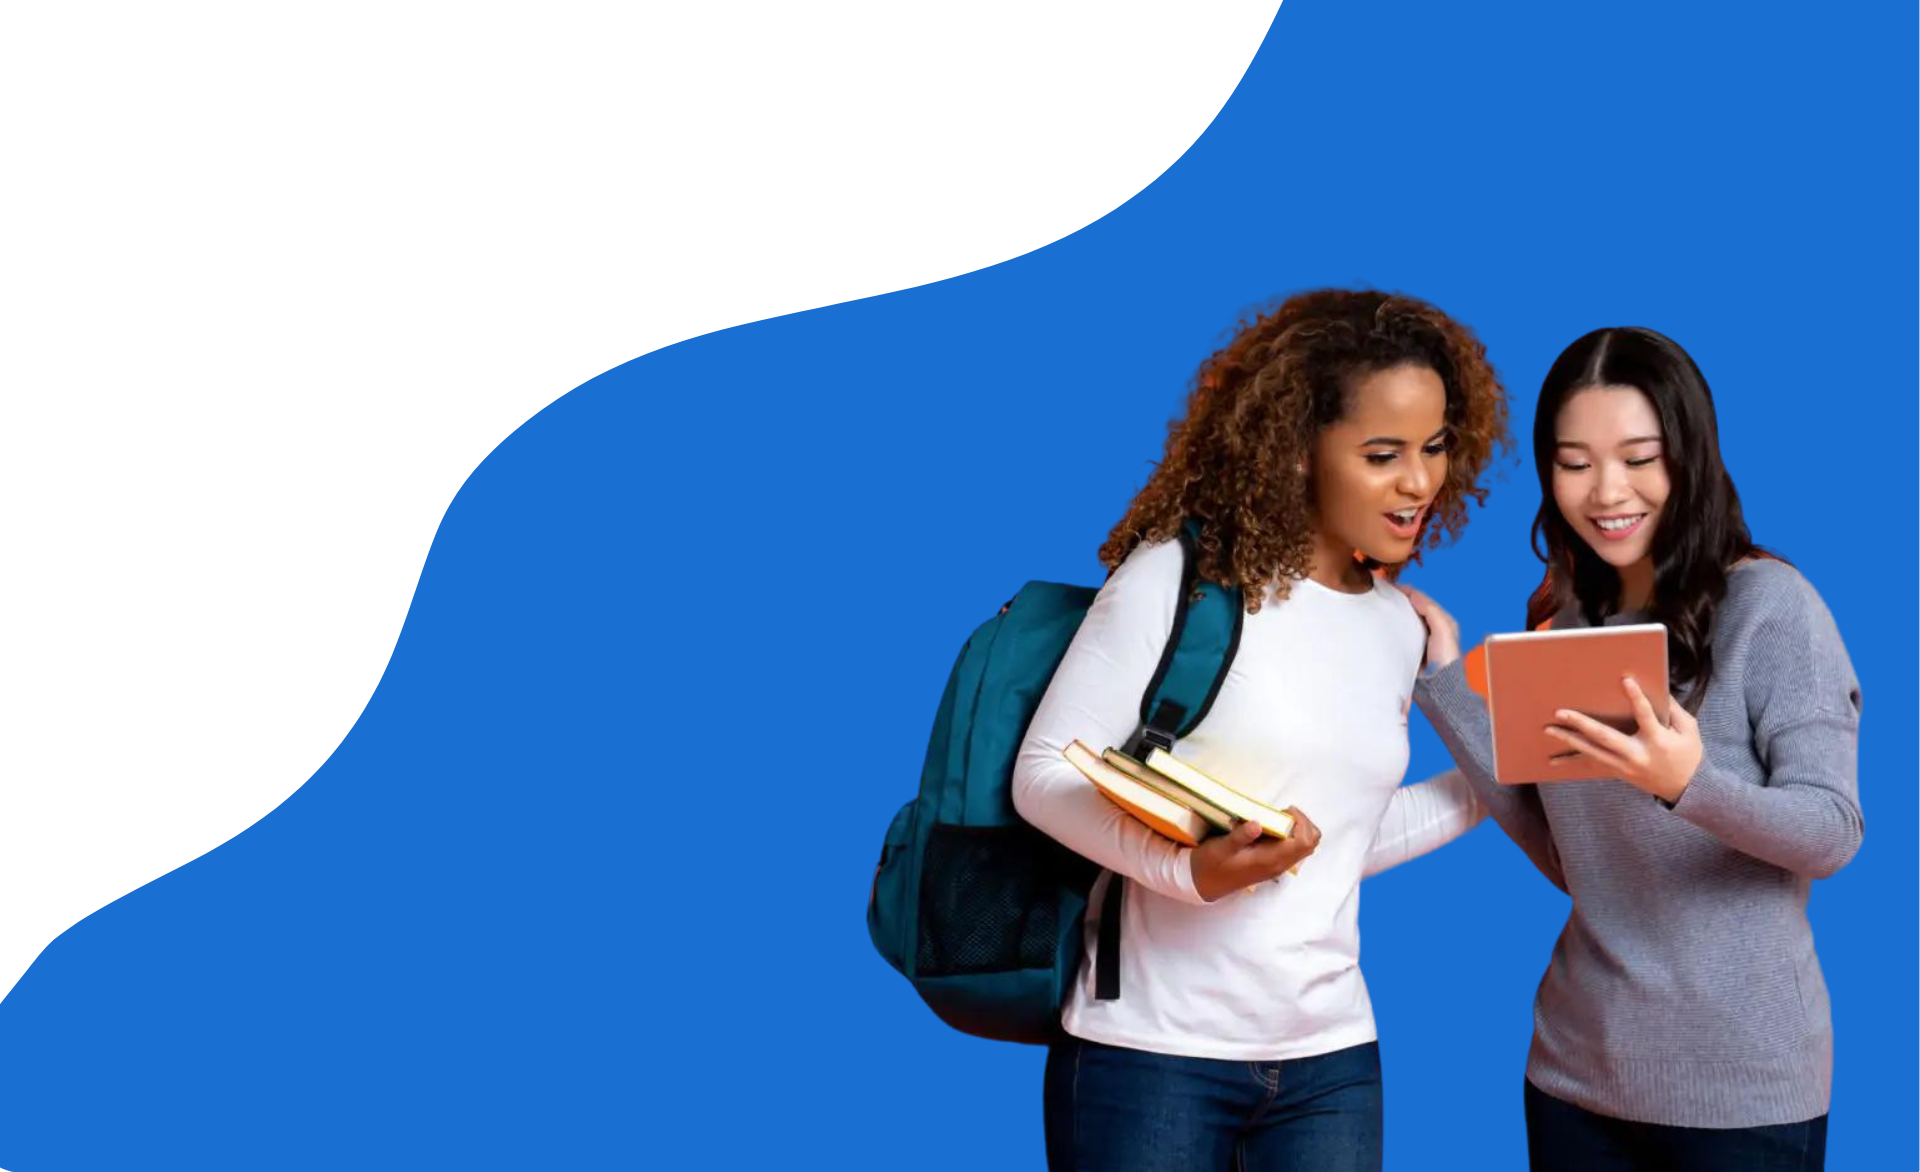
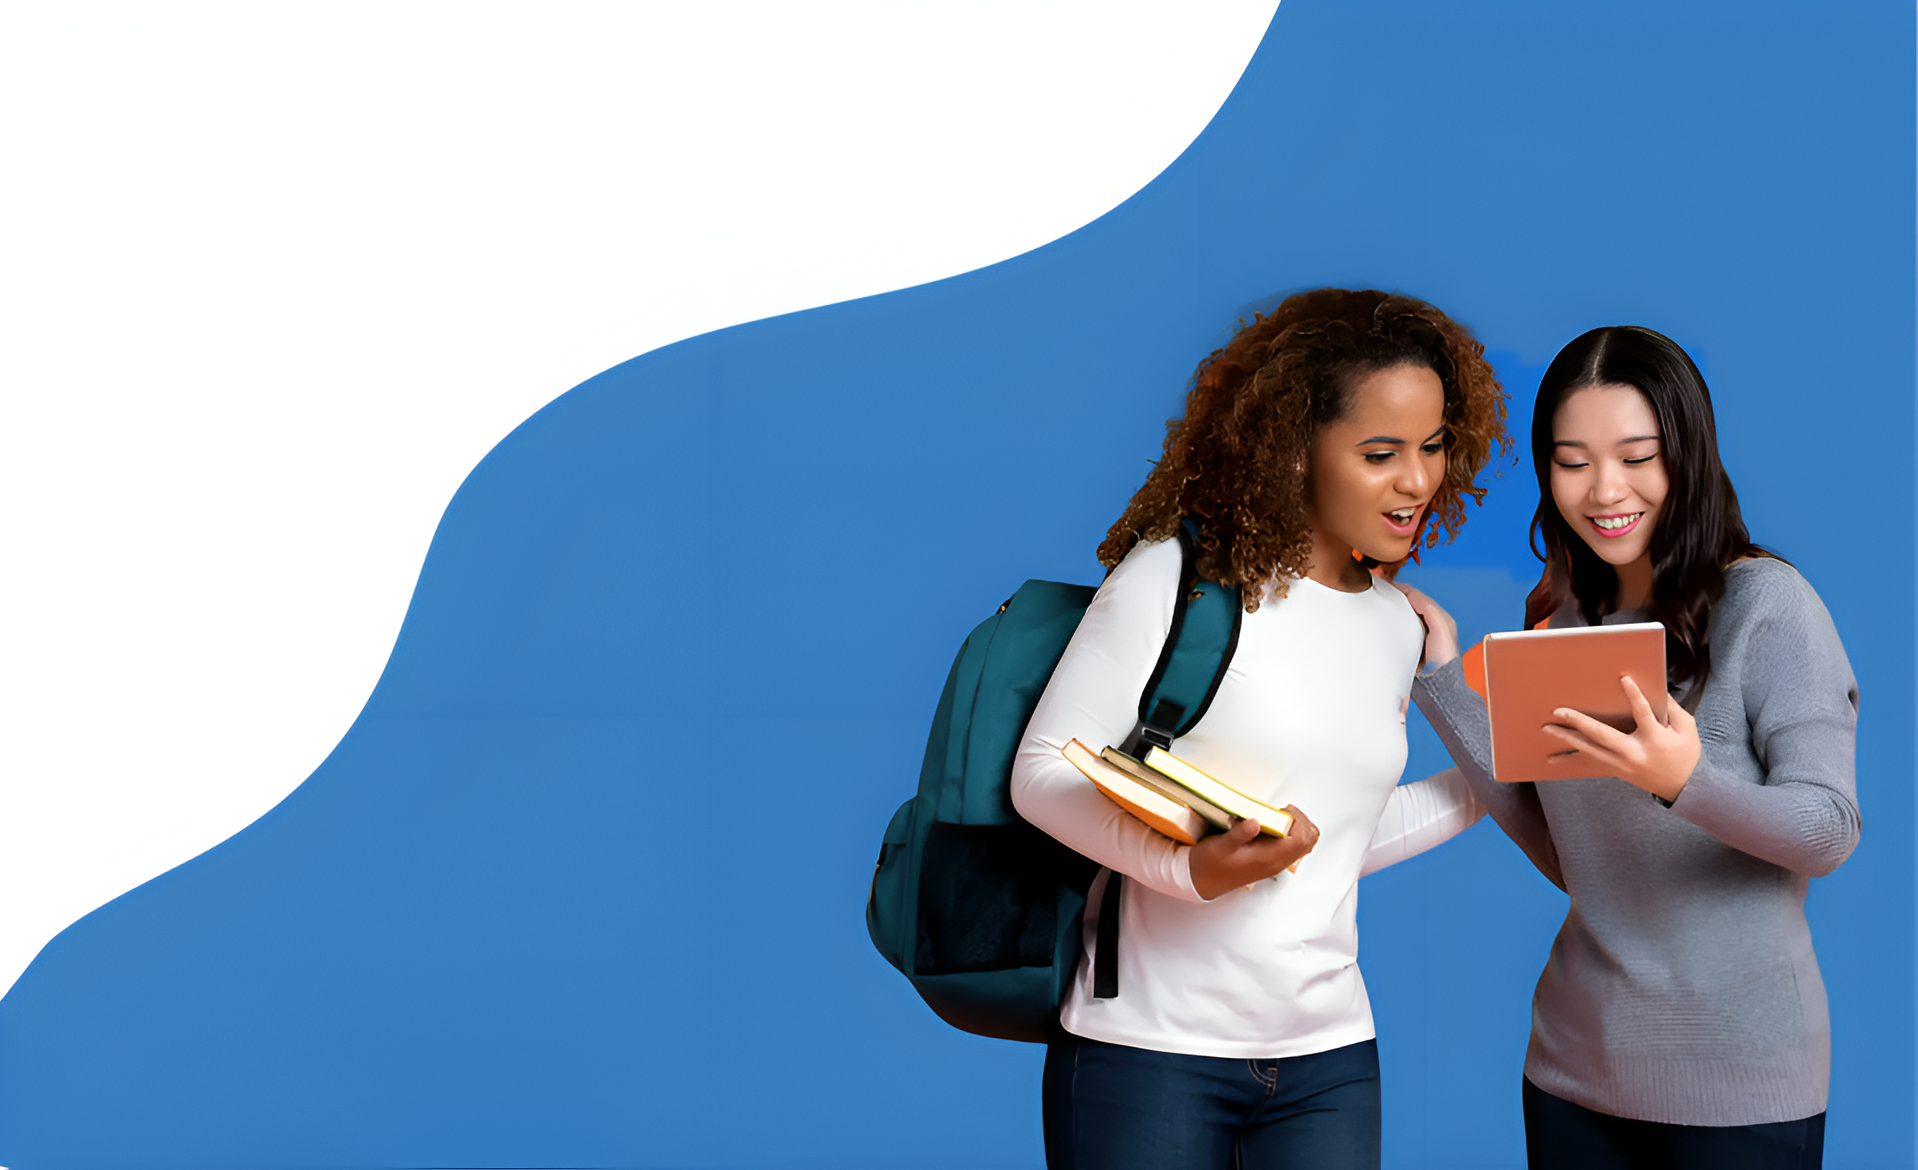
improving thr picture quality

diff --git a/src/App.js b/src/App.js
@@ -1,6 +1,6 @@
 import React, { useState, useEffect } from 'react';
 import { BrowserRouter as Router, Route, Routes, useLocation } from 'react-router-dom';
-import Navbar from './components/Navbar/Navbar.js';
+import Navbar from './components/NavBar/Navbar.js';
 import Homepage from './pages/Homepage.js';
 import MainApplication from './pages/MainApplication/MainApplication';
 import HiringBoard from './components/HiringBoard/HiringBoard';
